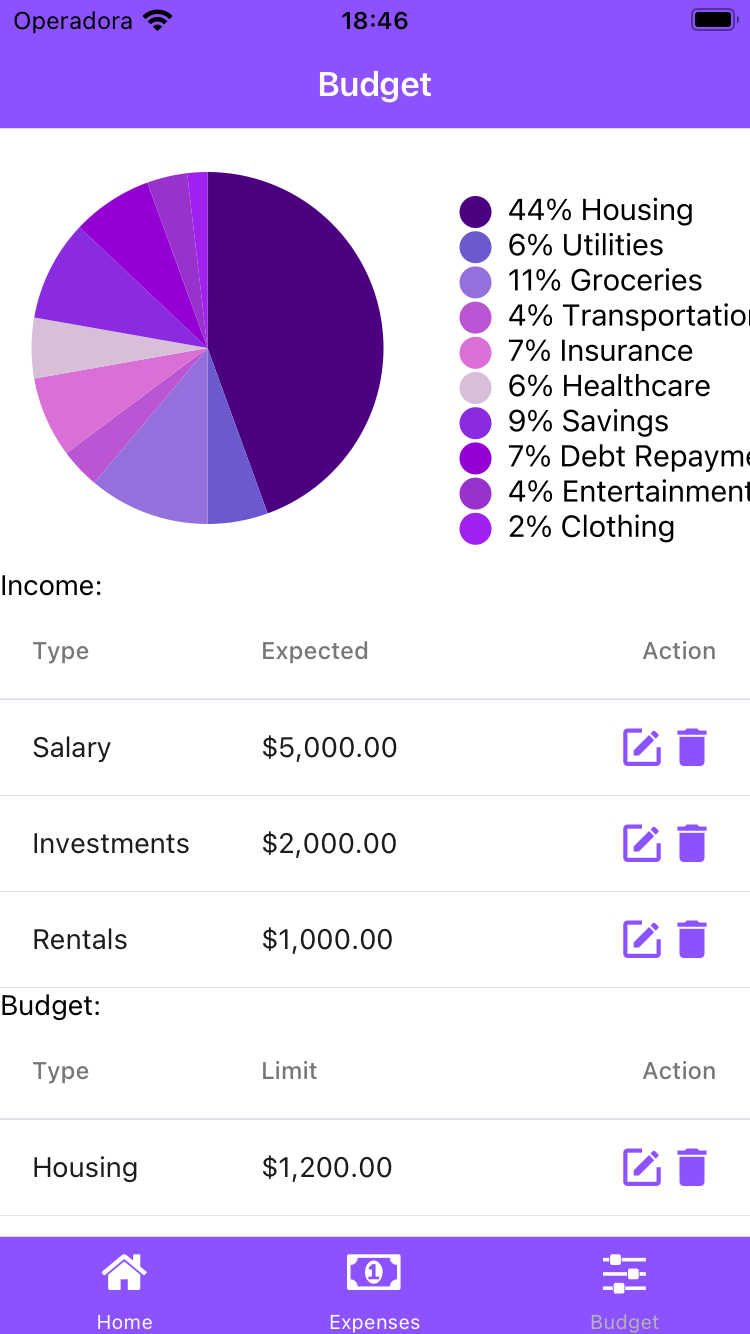
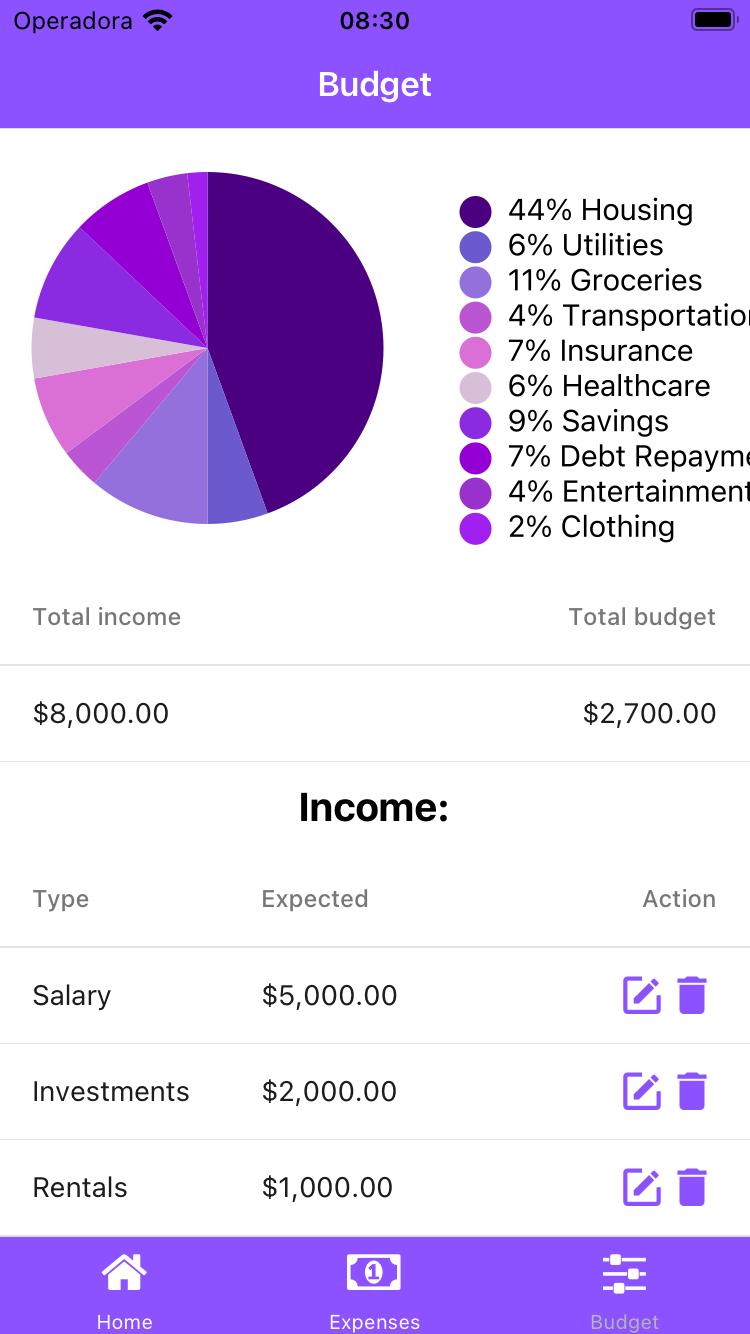
Add budget resume and fix styles of header

diff --git a/src/screens/BudgetScreen.tsx b/src/screens/BudgetScreen.tsx
@@ -11,6 +11,7 @@ import {BudgetItem} from '../components/BudgetItem';
 import {DataTable} from 'react-native-paper';
 import {PieChart} from 'react-native-chart-kit';
 import {ChartColors, MyColors} from '../styles/Color';
+import formatMoney from '../utils/NumberUtils';
 
 const BudgetScreen = () => {
   const dataIncome = [
@@ -87,6 +88,17 @@ const BudgetScreen = () => {
       stroke: '#ffa726',
     },
   };
+
+  const totalIncome = dataIncome.reduce((accumulator, object) => {
+    return accumulator + object.value;
+  }, 0);
+  const displayTotalIncome = formatMoney(totalIncome);
+
+  const totalBudget = dataBudget.reduce((accumulator, object) => {
+    return accumulator + object.limitAmount;
+  }, 0);
+  const displayTotalBudget= formatMoney(totalBudget);
+
   return (
     <SafeAreaView>
       <ScrollView>
@@ -104,7 +116,19 @@ const BudgetScreen = () => {
               hasLegend={true}
             />
           </View>
-          <Text>Income:</Text>
+          <DataTable>
+            <DataTable.Header>
+              <DataTable.Title>Total income</DataTable.Title>
+              <DataTable.Title numeric>Total budget</DataTable.Title>
+            </DataTable.Header>
+            <DataTable.Row>
+              <DataTable.Cell>{displayTotalIncome}</DataTable.Cell>
+              <DataTable.Cell numeric>{displayTotalBudget}</DataTable.Cell>
+            </DataTable.Row>
+          </DataTable>
+          <View style={styles.titleContainer}>
+            <Text style={styles.title}>Income:</Text>
+          </View>
           <DataTable>
             <DataTable.Header>
               <DataTable.Title>Type</DataTable.Title>
@@ -119,7 +143,10 @@ const BudgetScreen = () => {
               />
             ))}
           </DataTable>
-          <Text>Budget:</Text>
+          <View style={styles.titleContainer}>
+
+            <Text style={styles.title}>Budget:</Text>
+          </View>
           <DataTable>
             <DataTable.Header>
               <DataTable.Title>Type</DataTable.Title>
@@ -146,6 +173,17 @@ const styles = StyleSheet.create({
   },
   chartContainer: {
     flex: 1,
+  },
+  title: {
+    fontSize: 20,
+    fontWeight: 'bold',
+    marginTop: 10,
+    marginBottom: 10,
+    jus: 'center',
+  },
+  titleContainer: {
+    flex: 1,
+    alignItems: 'center',
   },
 });
 

diff --git a/README.md b/README.md
@@ -8,7 +8,7 @@ Mobile version of EveryCent for webApp.
 
 ## ScreenShoot:
 
-<img align="center" src="https://raw.githubusercontent.com/asreal089/everyCentApp/main/app_preview.png">
+<img align="center" width="250px" height="440px" src="https://raw.githubusercontent.com/asreal089/everyCentApp/main/app_preview.png">
 
 # How to run
 
